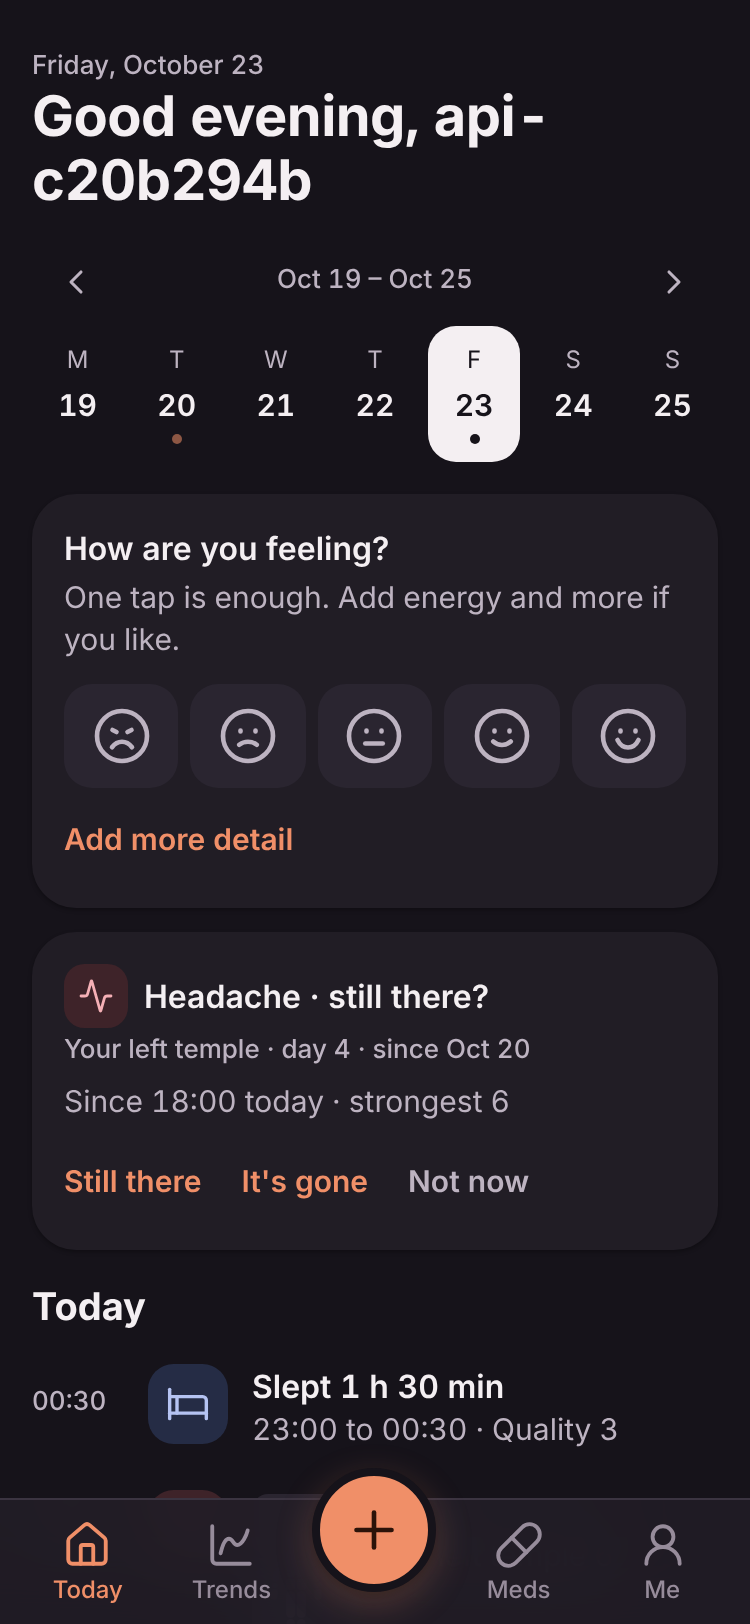
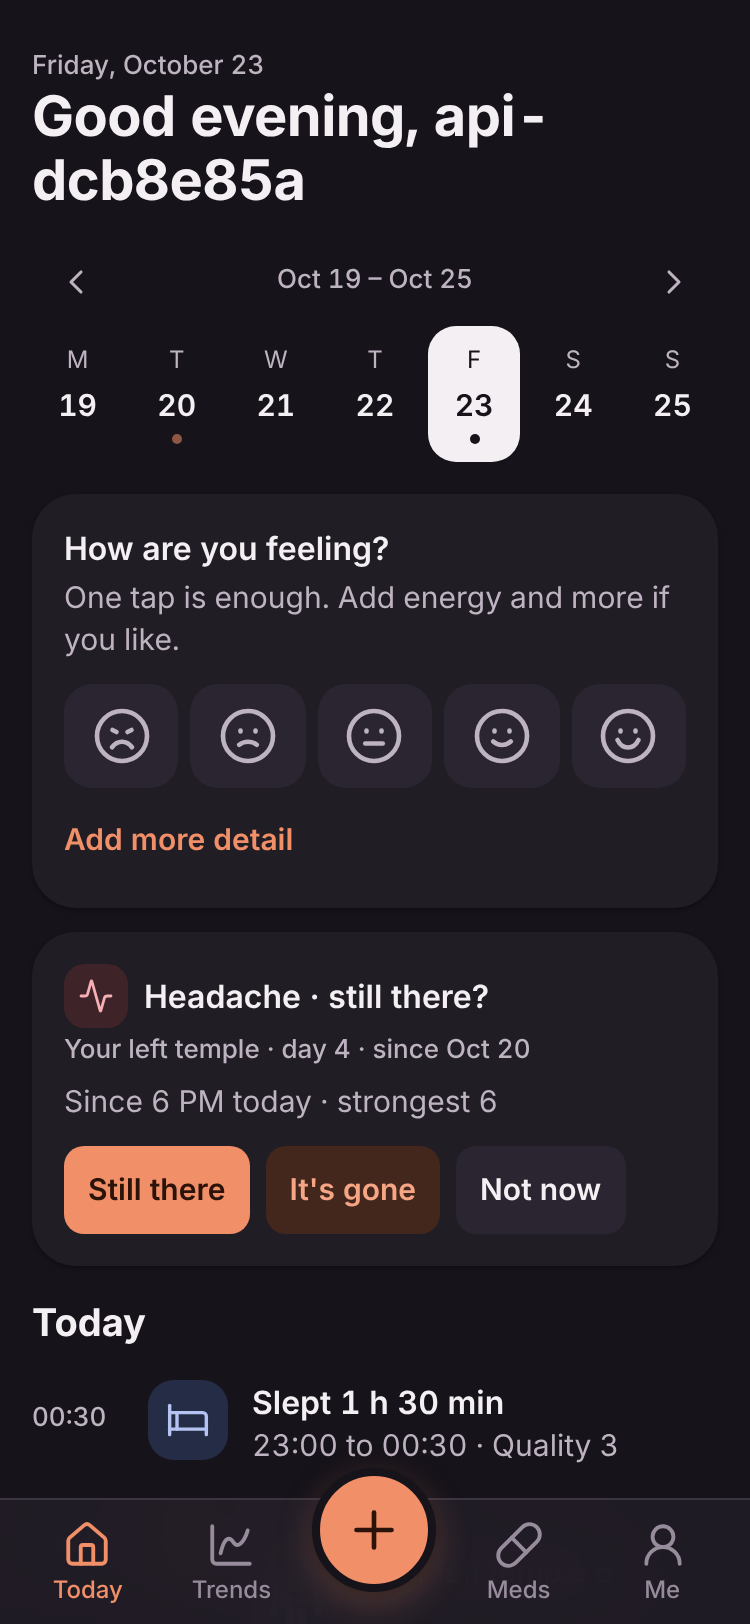
fix(pain): button styles and 12/24-hour times on the headache card (#89)
Claude-Session: https://claude.ai/code/session_013EeJ16rYtZ5Nx4Xt8Y7ogk

diff --git a/src/routes/+page.svelte b/src/routes/+page.svelte
@@ -1,6 +1,7 @@
 <script lang="ts">
 	import { browser } from '$app/environment';
 	import {
+		Button,
 		CategoryBadge,
 		Chip,
 		DueDoses,
@@ -133,9 +134,17 @@
 	let notNow = $state<NotNow | null>(browser ? readNotNow(localStorage) : null);
 	const hCard = $derived(isToday ? headacheCard(allRecords(), new Date(), notNow) : null);
 	const hEpisode = $derived(hCard ? episodeOf(hCard.id) : undefined);
+	/** The clock time in the phone's 12 or 24 hour style ("6 PM", "6:30 PM"; the minutes only when there are some). */
+	function clock(at: string): string {
+		const d = new Date(2000, 0, 1, Number(at.slice(11, 13)), Number(at.slice(14, 16)));
+		return d.toLocaleTimeString(i18n.locale, {
+			hour: 'numeric',
+			...(at.slice(14, 16) === '00' ? {} : { minute: '2-digit' })
+		});
+	}
 	function hSince(h: OpenHeadache): string {
 		const when = t('headache.card.when', {
-			time: timeOf(h.start),
+			time: clock(h.start),
 			day: t(`pain.still.day.${Math.min(h.daysAgo, 2)}` as MessageKey)
 		});
 		return h.strongest === null
@@ -264,7 +273,7 @@
 						onclick={() => {
 							stopPick = c;
 							earlier = false;
-						}}>{i === 0 ? t('headache.card.now', { time: timeOf(c) }) : timeOf(c)}</Chip
+						}}>{i === 0 ? t('headache.card.now', { time: clock(c) }) : clock(c)}</Chip
 					>
 				{/each}
 				<Chip selected={earlier} onclick={() => (earlier = !earlier)}>{t('headache.card.earlier')}</Chip>
@@ -284,20 +293,23 @@
 				</div>
 			{/if}
 			{#if !stopValid(h)}<p class="warn" role="alert">{t('headache.order')}</p>{/if}
-			<div class="still-actions">
-				<button type="button" class="more" disabled={!stopValid(h)} onclick={() => hGone(h)}
-					>{t('common.save')}</button
+			<div class="hc-actions">
+				<Button size="sm" style="min-height:44px" disabled={!stopValid(h)} onclick={() => hGone(h)}
+					>{t('common.save')}</Button
 				>
-				<button type="button" class="more quiet" onclick={() => (stopping = false)}
-					>{t('common.cancel')}</button
+				<Button size="sm" variant="quiet" style="min-height:44px" onclick={() => (stopping = false)}
+					>{t('common.cancel')}</Button
 				>
 			</div>
 		{:else}
-			<div class="still-actions">
-				<button type="button" class="more" onclick={() => hStill(h)}>{t('headache.card.still')}</button>
-				<button type="button" class="more" onclick={() => hOpen(h)}>{t('pain.still.gone')}</button>
-				<button type="button" class="more quiet" onclick={() => hNotNow(h)}
-					>{t('headache.card.notNow')}</button
+			<div class="hc-actions">
+				<Button size="sm" style="min-height:44px" onclick={() => hStill(h)}>{t('headache.card.still')}</Button
+				>
+				<Button size="sm" variant="soft" style="min-height:44px" onclick={() => hOpen(h)}
+					>{t('pain.still.gone')}</Button
+				>
+				<Button size="sm" variant="quiet" style="min-height:44px" onclick={() => hNotNow(h)}
+					>{t('headache.card.notNow')}</Button
 				>
 			</div>
 		{/if}
@@ -497,6 +509,12 @@
 		display: flex;
 		align-items: center;
 		gap: var(--sp-2);
+	}
+	.hc-actions {
+		display: flex;
+		flex-wrap: wrap;
+		gap: var(--sp-2);
+		margin-top: var(--sp-3);
 	}
 	.hc-line {
 		margin-top: 6px;

diff --git a/tests/e2e/headache-still.spec.ts b/tests/e2e/headache-still.spec.ts
@@ -41,7 +41,7 @@ test('Still there notes the hour on the same entry, hides the card and shows a t
 	await logHeadache(page);
 
 	await expect(card(page)).toBeVisible();
-	await expect(card(page)).toContainText(`Since ${pad(startHour())}:00 today · strongest 6`);
+	await expect(card(page)).toHaveText(/Since \d{1,2}(:00)?( [AP]M)? today · strongest 6/);
 	// The general card is for other pain: nothing else was logged, so there is only the headache card.
 	await expect(generalCard(page)).toHaveCount(0);
 
@@ -58,9 +58,11 @@ test('It’s gone asks when it stopped, writes it on the entry and removes the c
 
 	await card(page).getByRole('button', { name: "It's gone", exact: true }).click();
 	await expect(card(page).getByText('When did it stop?')).toBeVisible();
-	const now = card(page).getByRole('button', { name: /^Now \(\d\d:00\)$/ });
+	const now = card(page).getByRole('button', { name: /^Now \(\d{1,2}(:00)?( [AP]M)?\)$/ });
 	await expect(now).toHaveAttribute('aria-pressed', 'true');
-	const stopHour = /\((\d\d):00\)/.exec((await now.textContent()) ?? '')![1]!;
+	// The label follows the phone's 12 or 24 hour style ("9 PM" or "21:00").
+	const m = /\((\d{1,2})(?::00)?(?: ([AP])M)?\)/.exec((await now.textContent()) ?? '')!;
+	const stopHour = pad(m[2] ? (Number(m[1]) % 12) + (m[2] === 'P' ? 12 : 0) : Number(m[1]));
 	await expect(card(page).getByRole('button', { name: 'Earlier…' })).toBeVisible();
 
 	// Cancel collapses; the card keeps asking.
